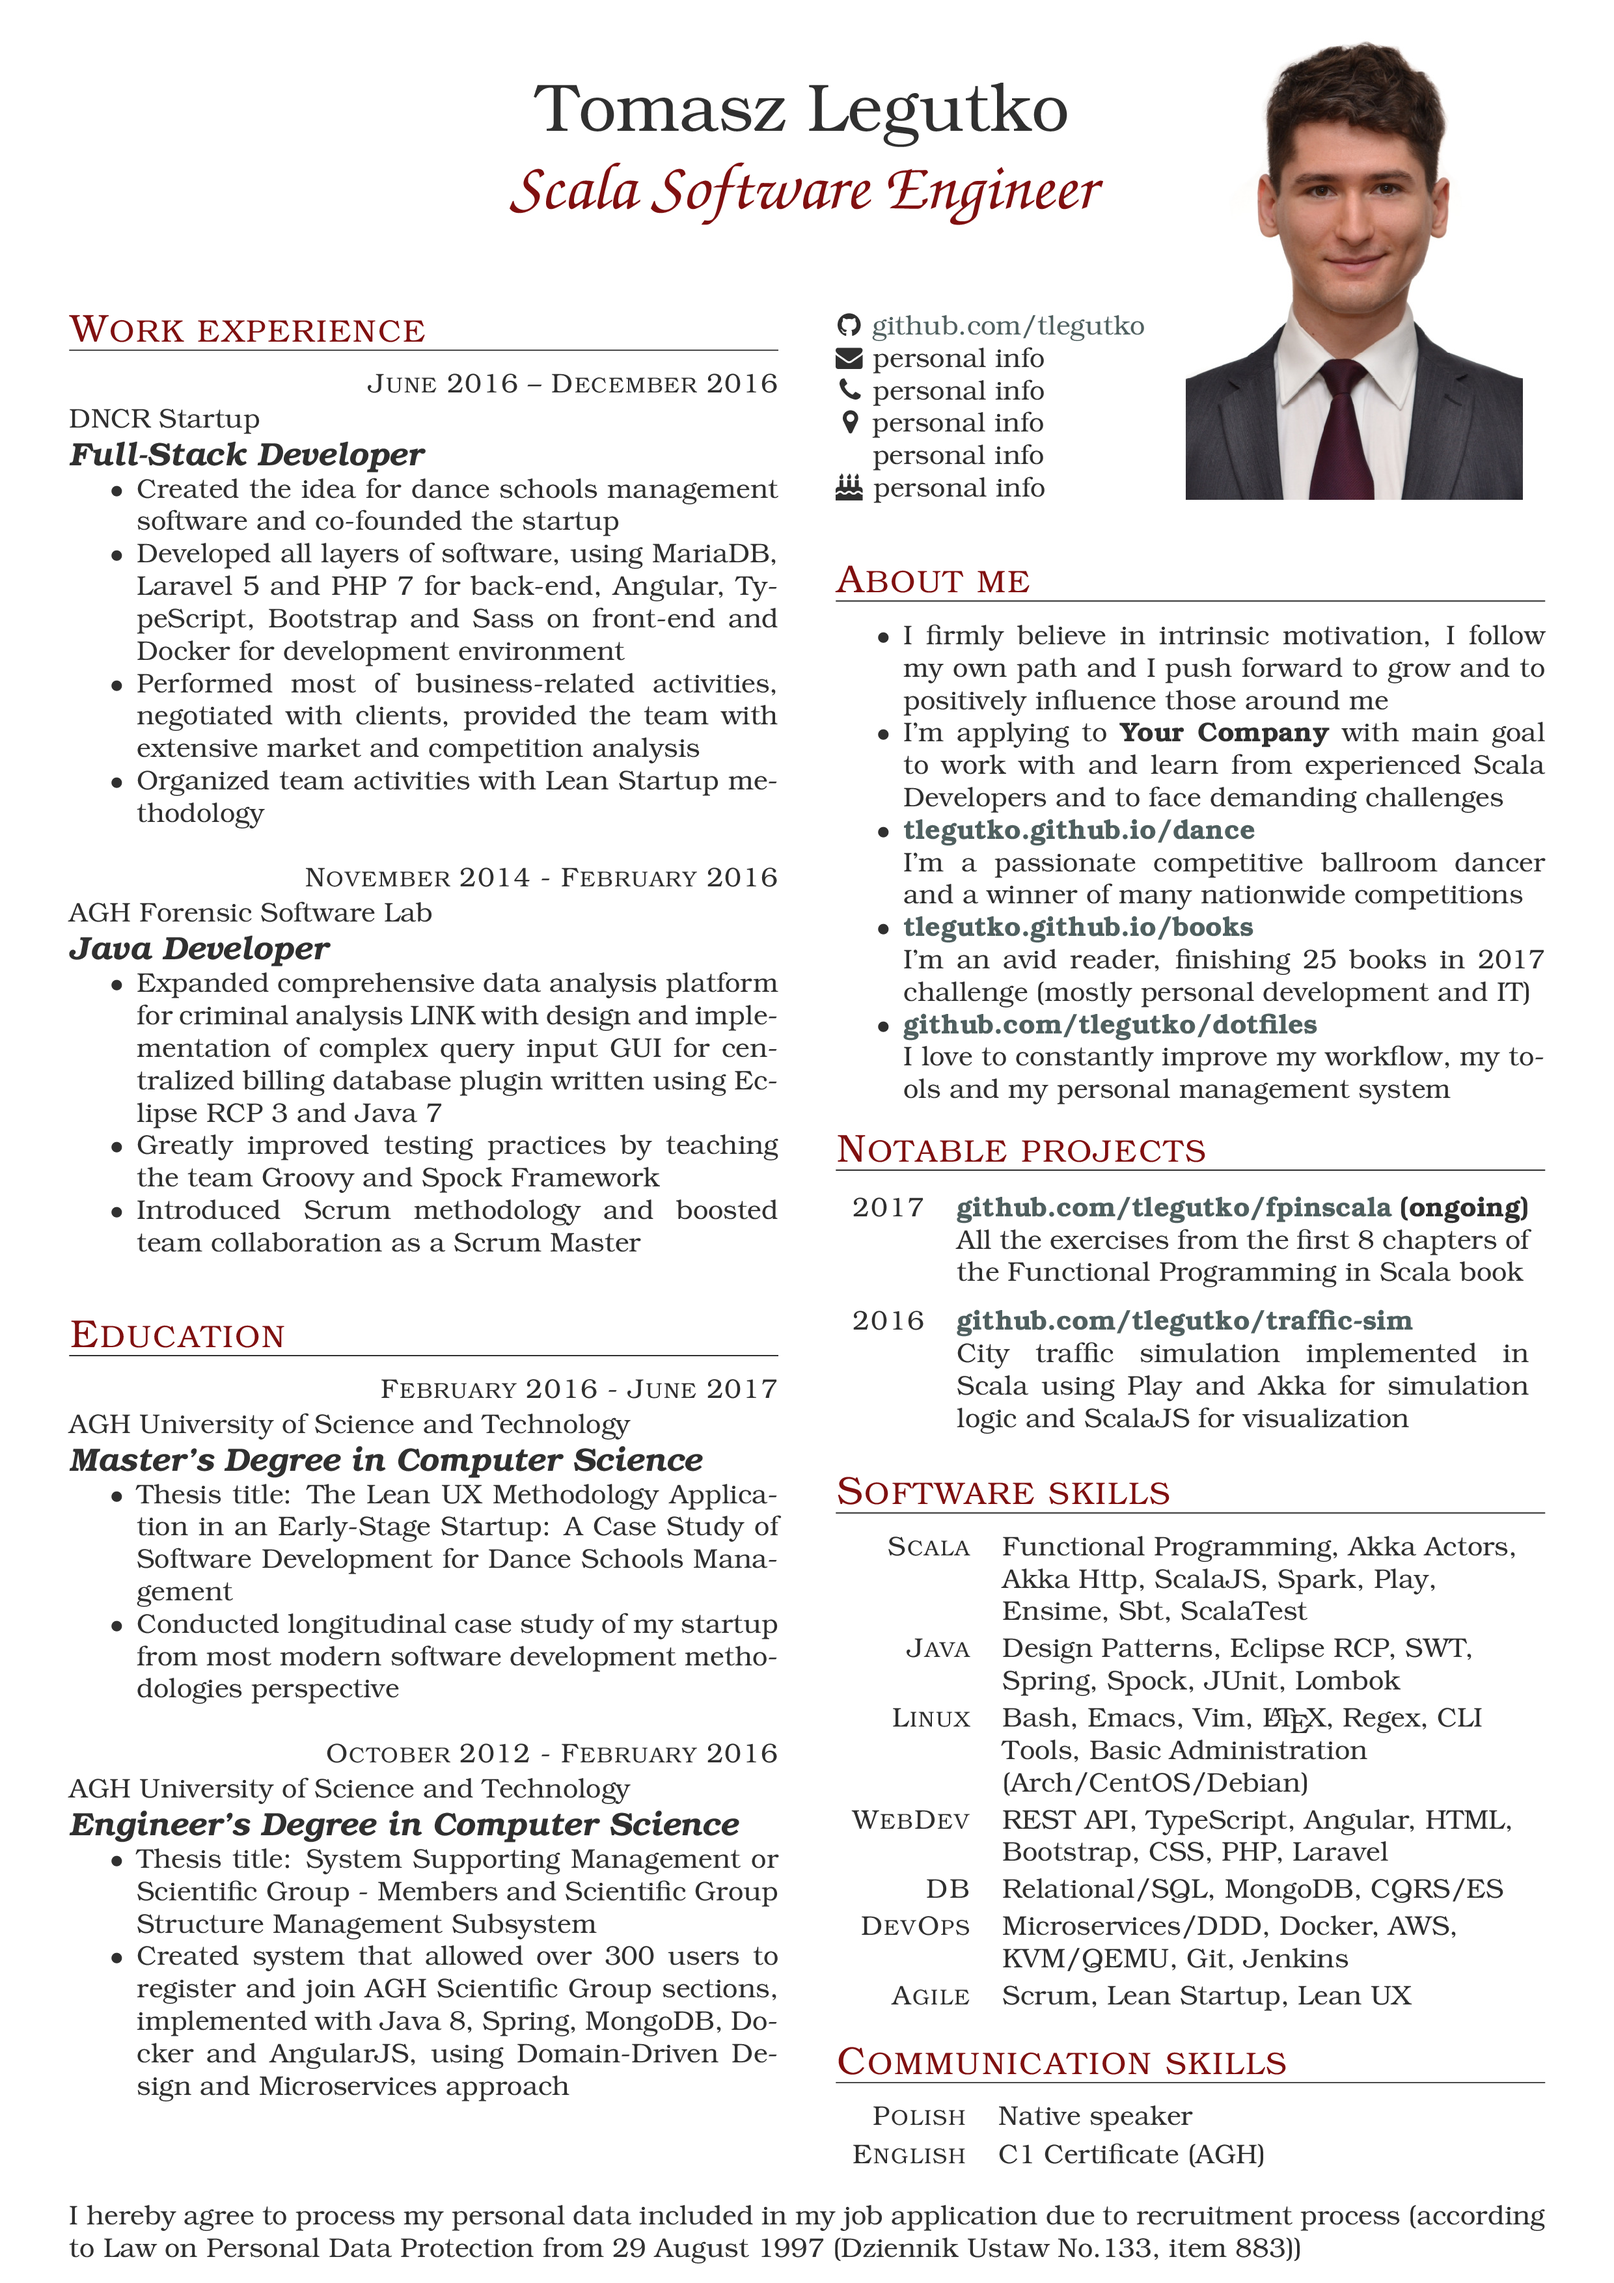
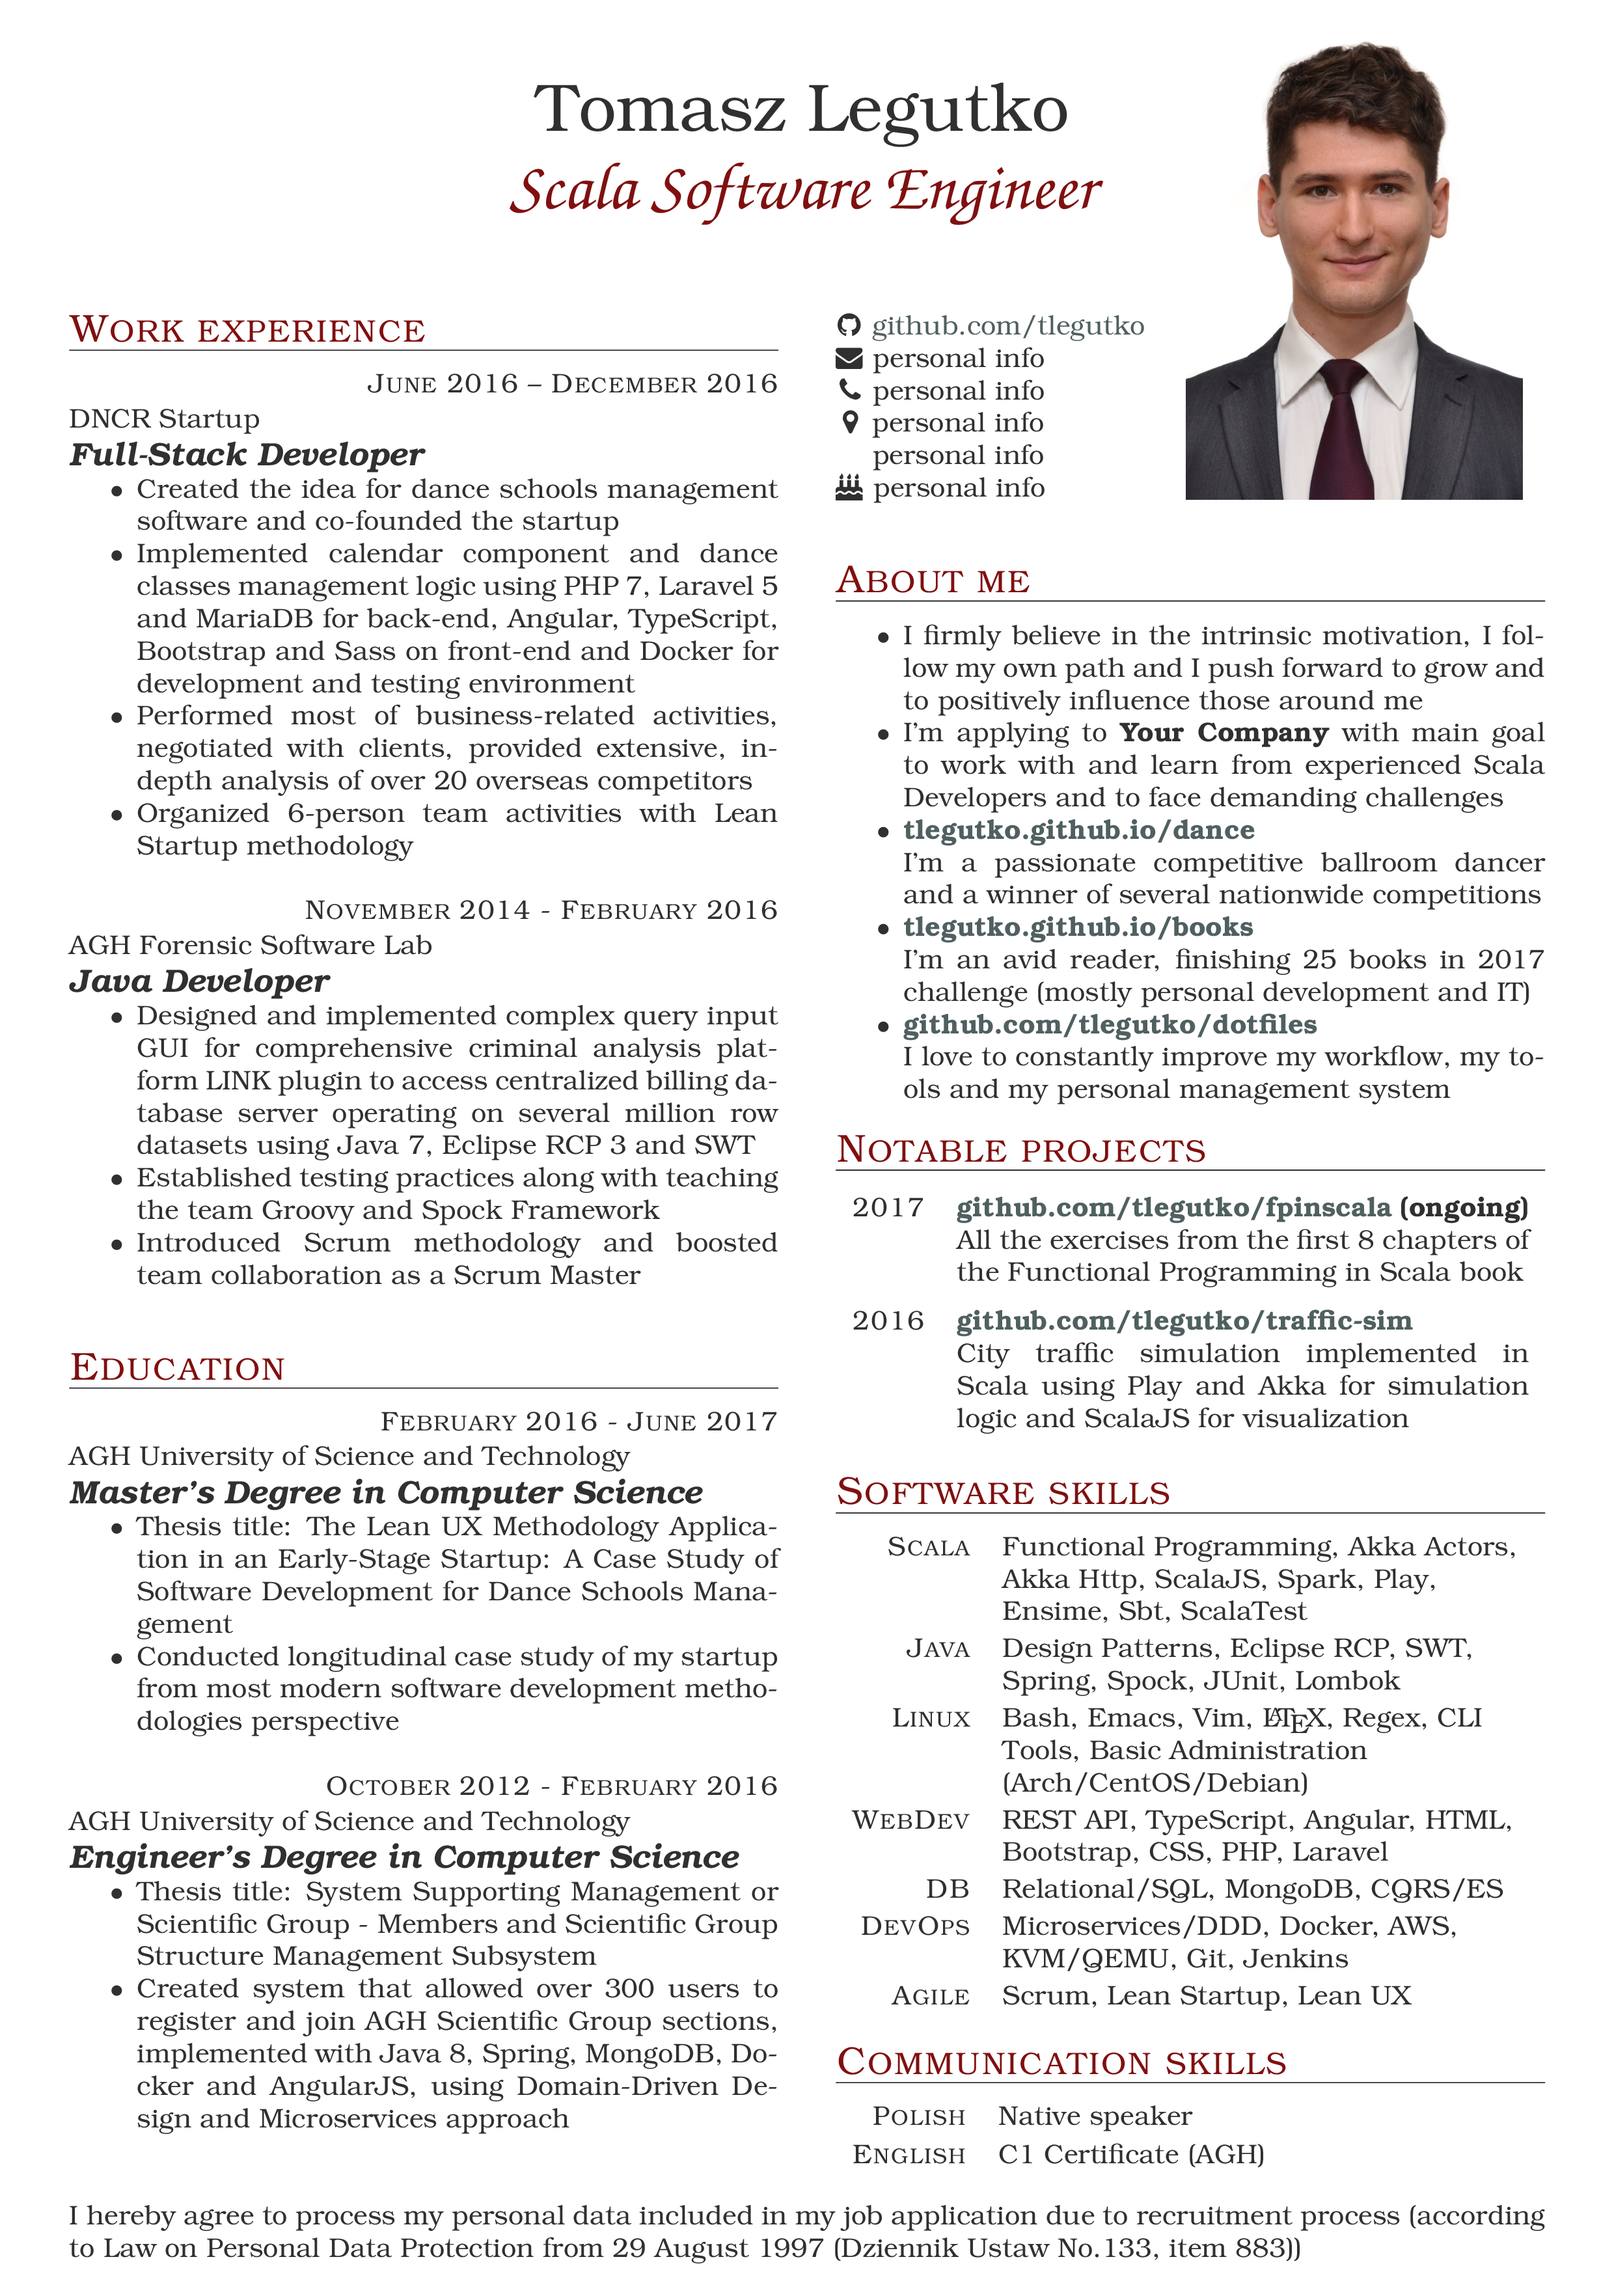
Improved metrics a little

Changed region(s): [[0.031, 0.2175, 0.4968, 0.9322], [0.5589, 0.2796, 0.9625, 0.3107], [0.7141, 0.3729, 0.9004, 0.4039]]

diff --git a/resume-no-personal-info.tex b/resume-no-personal-info.tex
@@ -18,17 +18,18 @@
      {Full-Stack Developer}
      \begin{itemize}[noitemsep,topsep=0pt]
      \item Created the idea for dance schools management software and co-founded the startup
-     \item Developed all layers of software, using MariaDB, Laravel 5 and PHP 7 for back-end, Angular, TypeScript, Bootstrap and Sass on front-end and Docker for development environment
-     \item Performed most of business-related activities, negotiated with clients, provided the team with extensive market and competition analysis
-     \item Organized team activities with Lean Startup methodology
+     % \item Developed all layers of software using MariaDB, Laravel 5 and PHP 7 for back-end, Angular, TypeScript, Bootstrap and Sass on front-end and Docker for development environment
+     \item Implemented calendar component and dance classes management logic using PHP 7, Laravel 5 and MariaDB for back-end, Angular, TypeScript, Bootstrap and Sass on front-end and Docker for development and testing environment
+     \item Performed most of business-related activities, negotiated with clients, provided extensive, in-depth analysis of over 20 overseas competitors
+     \item Organized 6-person team activities with Lean Startup methodology
      \end{itemize}
 
 \event{November 2014 - February 2016}
      {AGH Forensic Software Lab}
      {Java Developer}
      \begin{itemize}[noitemsep,topsep=0pt]
-     \item Expanded comprehensive data analysis platform for criminal analysis LINK with design and implementation of complex query input GUI for centralized billing database plugin written using Eclipse RCP 3 and Java 7
-     \item Greatly improved testing practices by teaching the team Groovy and Spock Framework
+     \item Designed and implemented complex query input GUI for comprehensive criminal analysis platform LINK plugin to access centralized billing database server operating on several million row datasets using Java 7, Eclipse RCP 3 and SWT
+     \item Established testing practices along with teaching the team Groovy and Spock Framework
      \item Introduced Scrum methodology and boosted team collaboration as a Scrum Master
      \end{itemize}
      
@@ -68,10 +69,10 @@
 
 \section{About me}
 \begin{itemize}[noitemsep,topsep=0pt]
-\item I firmly believe in intrinsic motivation, I follow my own path and I push forward to grow and to positively influence those around me
+\item I firmly believe in the intrinsic motivation, I follow my own path and I push forward to grow and to positively influence those around me
 \item I'm applying to {\bfseries Your Company} with main goal to work with and learn from experienced Scala Developers and to face demanding challenges
 \item {\bfseries\href{https://tlegutko.github.io/dance}{tlegutko.github.io/dance}}\\
-  I'm a passionate competitive ballroom dancer and a winner of many nationwide competitions
+  I'm a passionate competitive ballroom dancer and a winner of several nationwide competitions
 \item {\bfseries\href{https://tlegutko.github.io/books}{tlegutko.github.io/books}}\\
   I'm an avid reader, finishing 25 books in 2017 challenge (mostly personal development and IT)
 \item {\bfseries\href{https://github.com/tlegutko/dotfiles}{github.com/tlegutko/dotfiles}}\\
